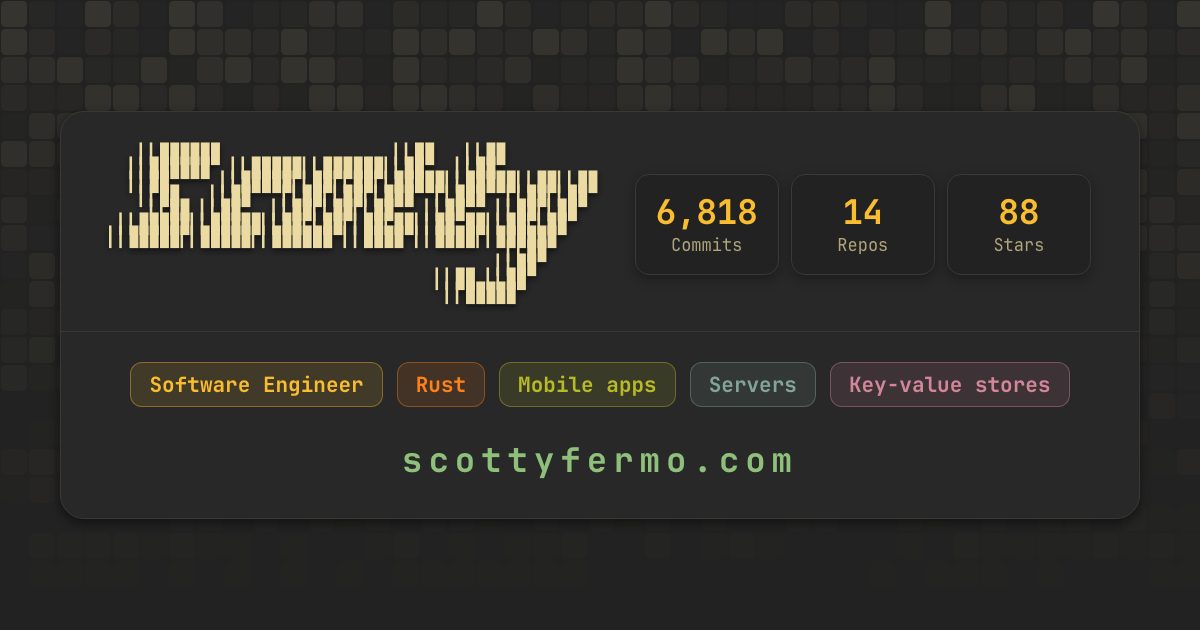
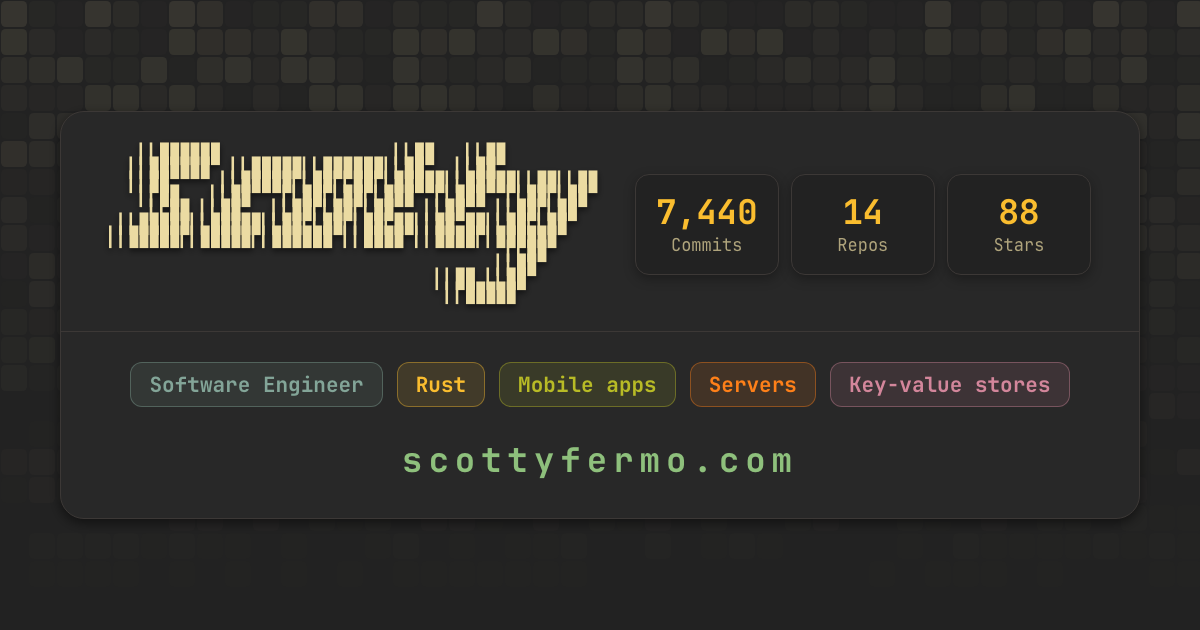
Stats snapshot and OG card: 7,440 commits, 88 stars, the tags in the hero tagline's colors

diff --git a/context/marketing/og_default.html b/context/marketing/og_default.html
@@ -11,8 +11,8 @@
      figures the hero shows, a rule, a row of tags and the domain. Tokens are
      the gruvbox-dark values from orangui's themes.css; the stat tiles
      are the shared StatsStrip look (a sunk tile, the number in palette-5), the
-     tags take the hero's own colors (Rust orange, apps green, servers blue,
-     stores pink) and the domain is palette-6 aqua. The figures are a snapshot
+     tags take the hero tagline's colors (Rust yellow, apps green, servers
+     orange, stores pink, the title in palette-1 blue) and the domain is palette-6 aqua. The figures are a snapshot
      of the live counts at render time; refresh them when regenerating. The
      block glyphs (U+258E/U+2589) need the self-hosted JetBrains Mono (CDN
      fontsource subsets drop U+2580-U+259F), loaded from the sibling zwipe
@@ -209,17 +209,17 @@ body {
                                 ▎▎▉▉ ▎▎▉▉
                                  ▎▎▉▉▉▉▉</pre>
       <div class="stats">
-        <div class="stat"><span class="stat-num">6,818</span><span class="stat-label">Commits</span></div>
+        <div class="stat"><span class="stat-num">7,440</span><span class="stat-label">Commits</span></div>
         <div class="stat"><span class="stat-num">14</span><span class="stat-label">Repos</span></div>
         <div class="stat"><span class="stat-num">88</span><span class="stat-label">Stars</span></div>
       </div>
     </div>
     <hr class="rule" />
     <div class="tags">
-      <span class="chip chip-p5">Software Engineer</span>
-      <span class="chip chip-p2">Rust</span>
+      <span class="chip chip-p1">Software Engineer</span>
+      <span class="chip chip-p5">Rust</span>
       <span class="chip chip-p3">Mobile apps</span>
-      <span class="chip chip-p1">Servers</span>
+      <span class="chip chip-p2">Servers</span>
       <span class="chip chip-tertiary">Key-value stores</span>
     </div>
     <div class="site">scottyfermo.com</div>
